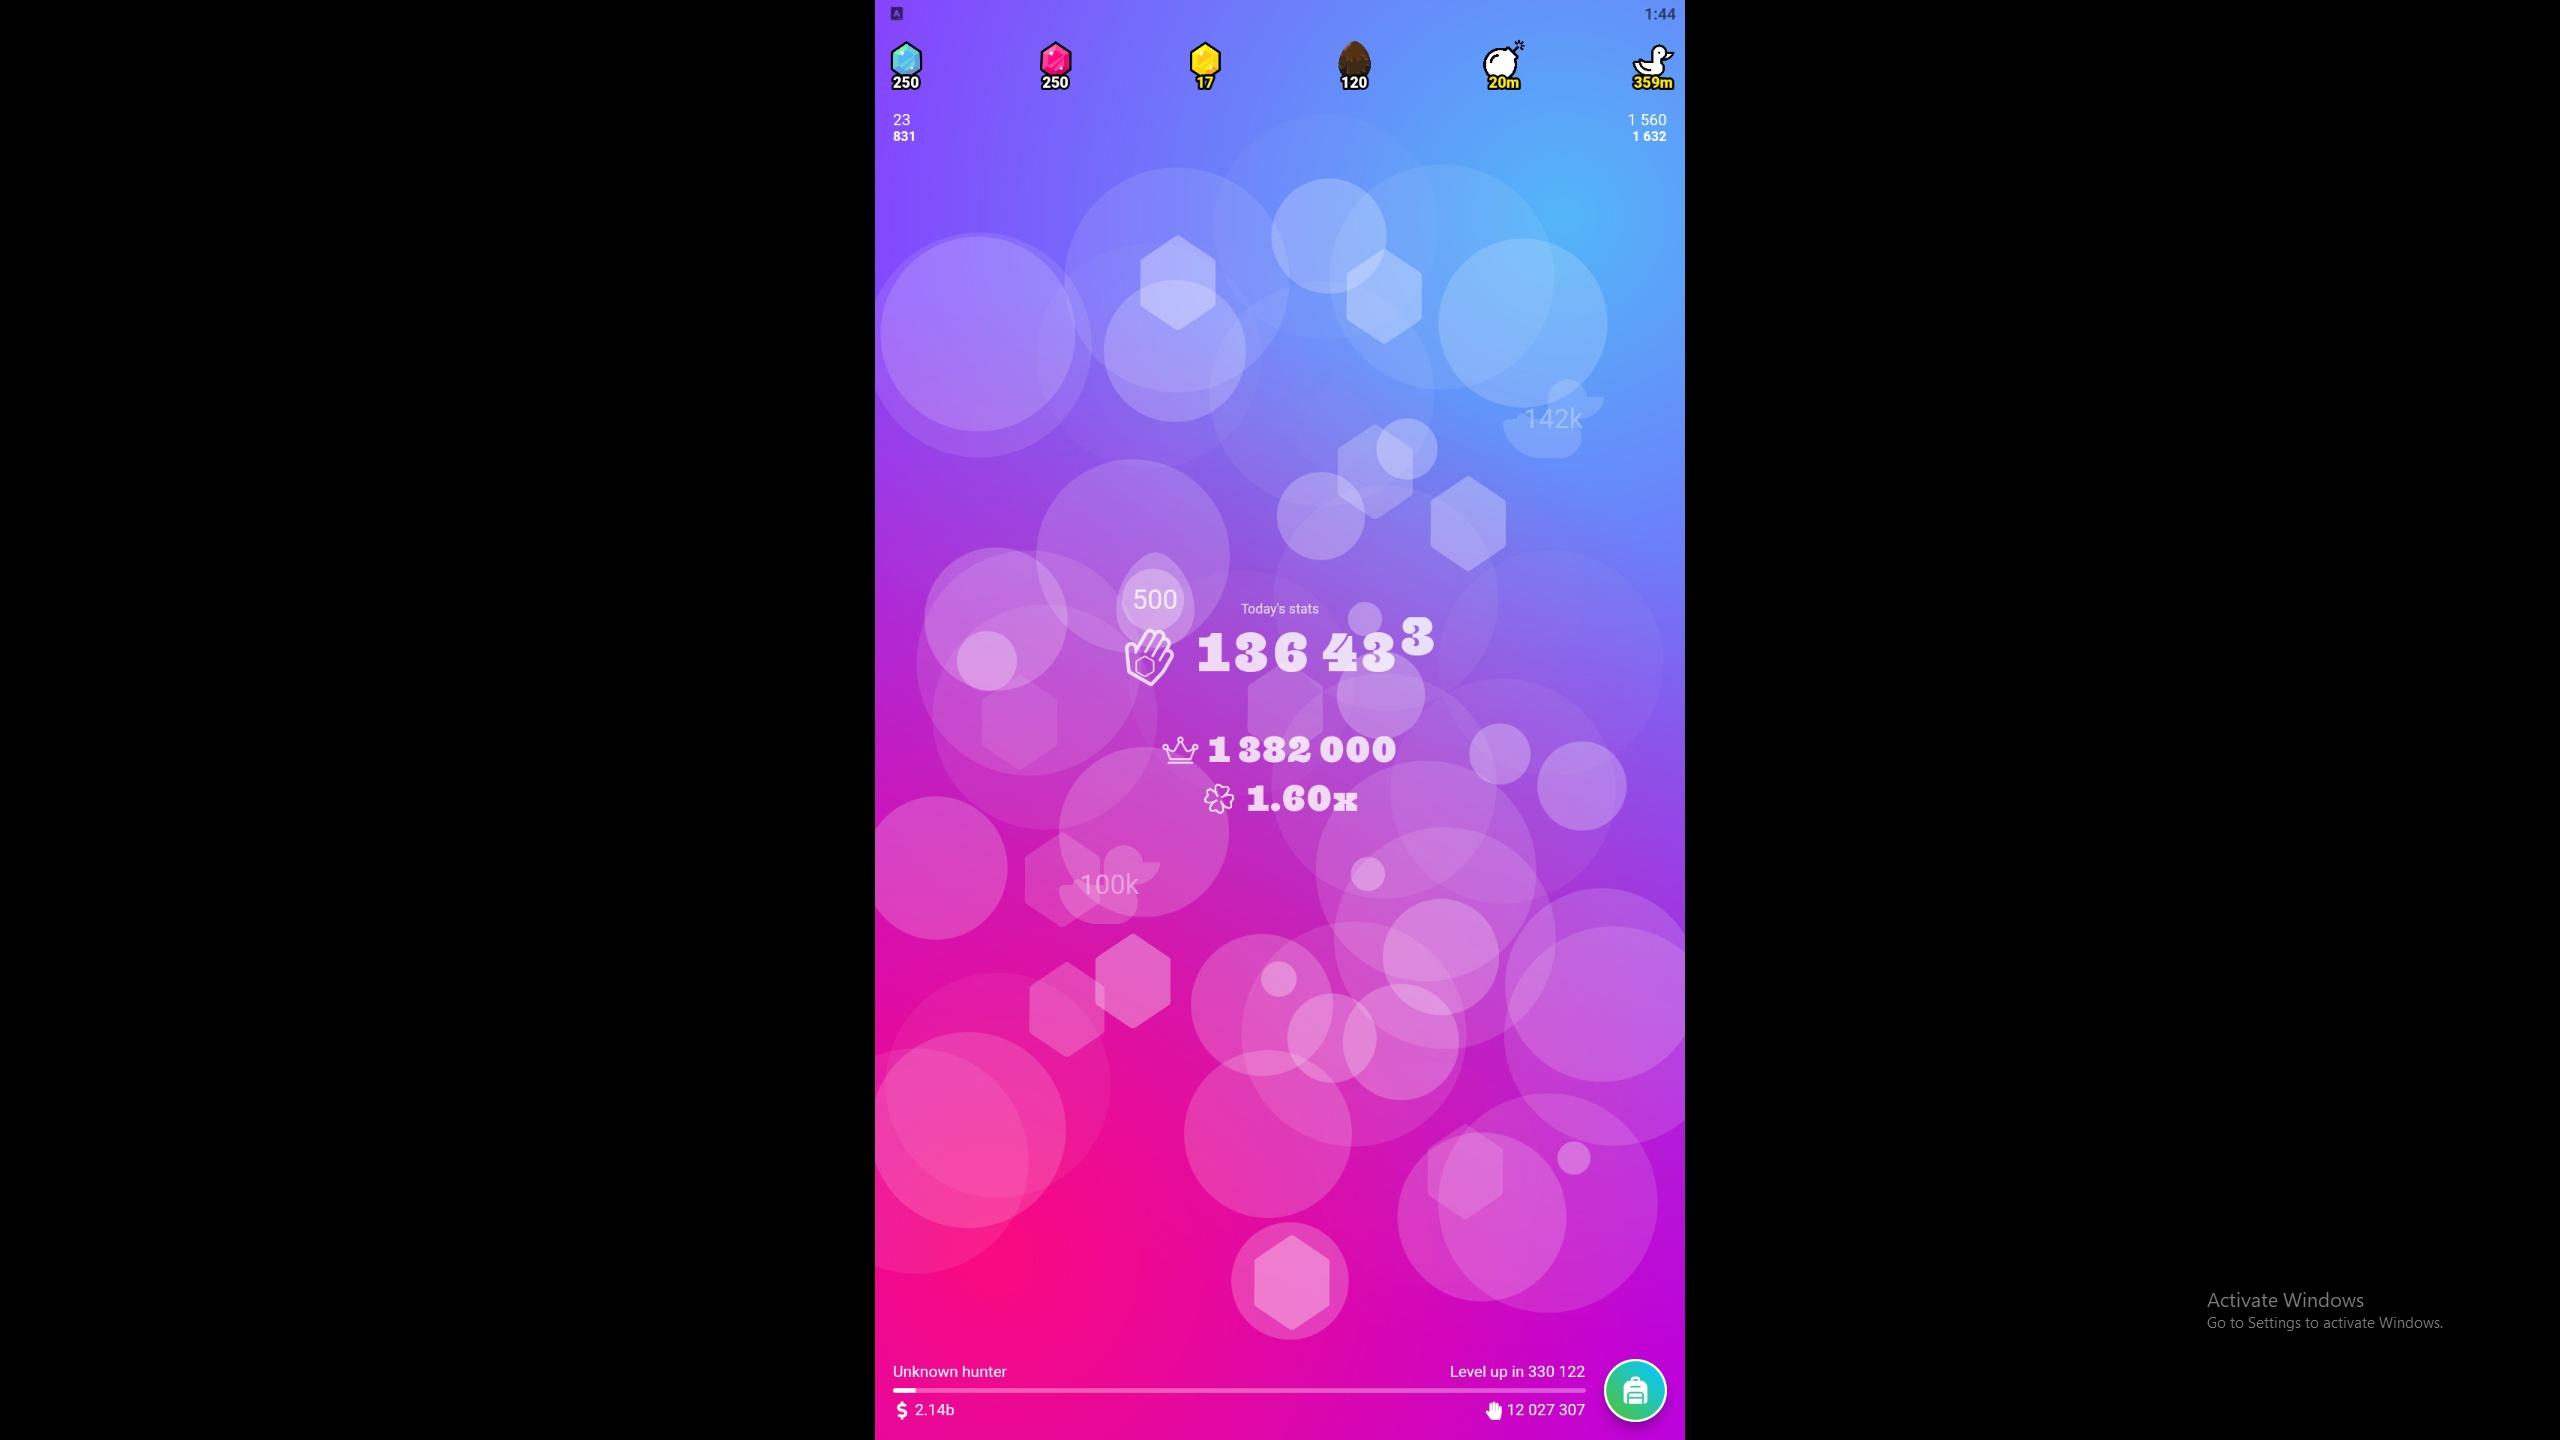
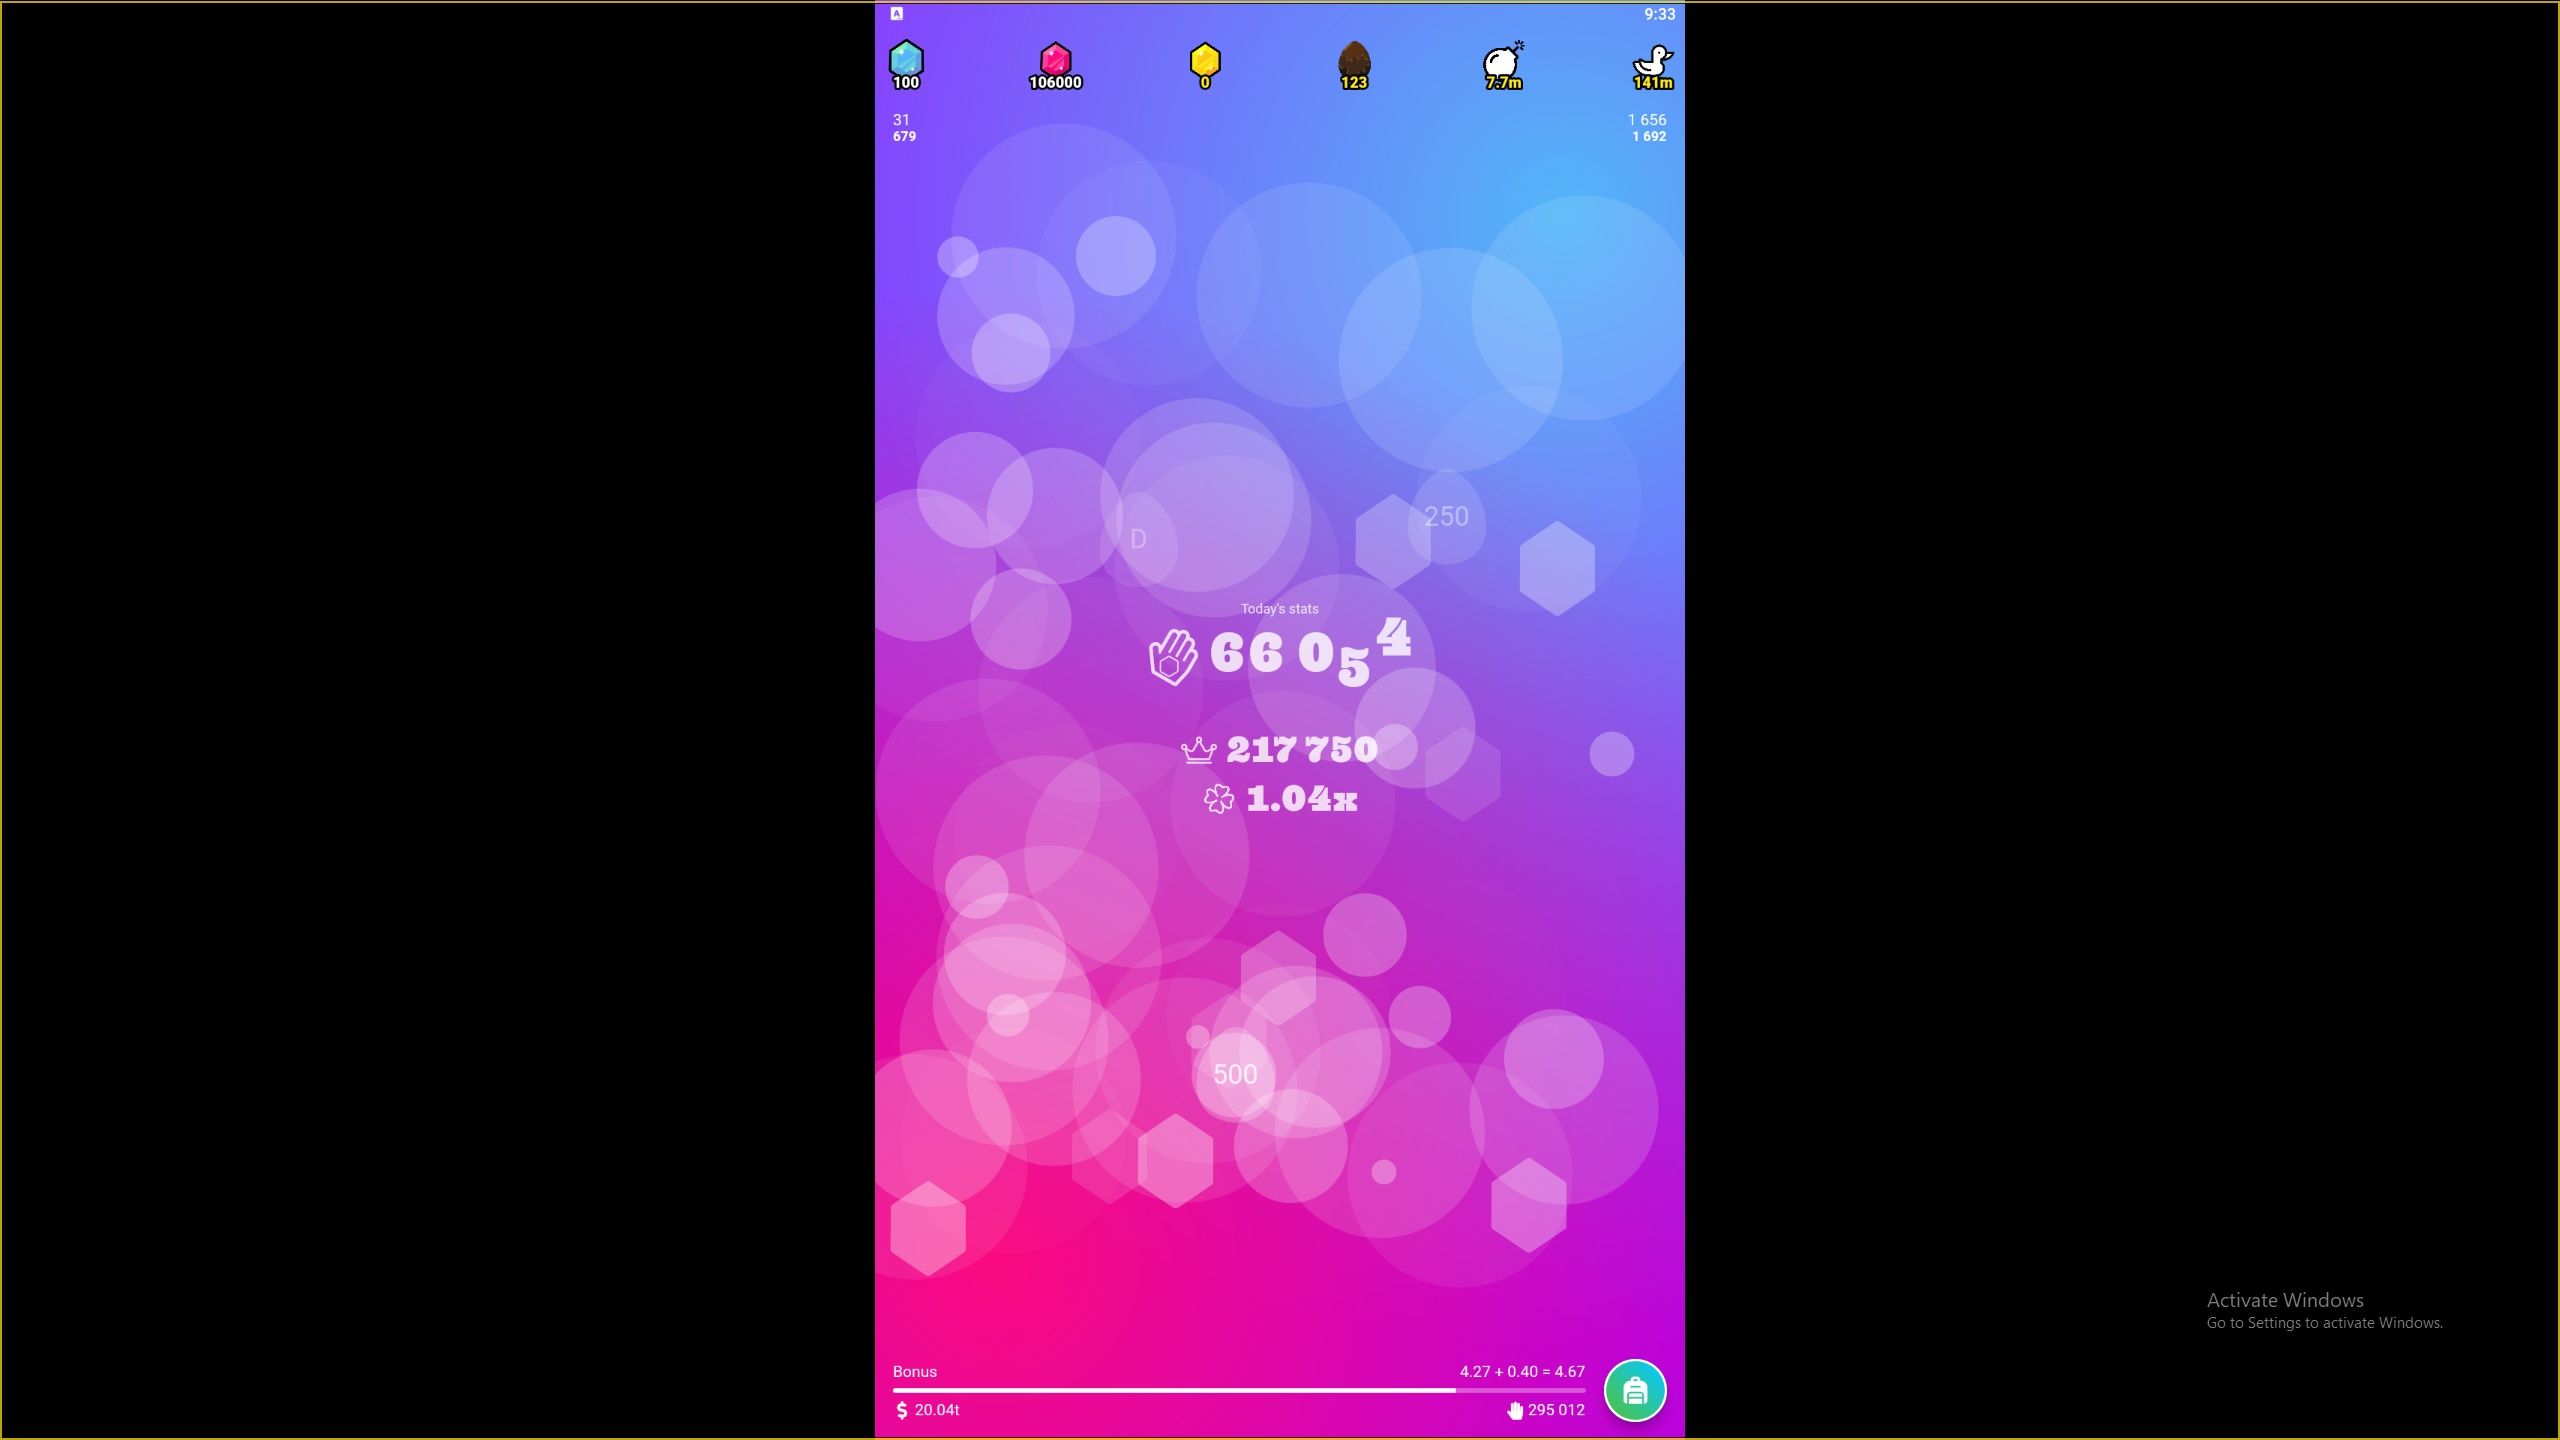
working gem pop

Changed region(s): [[0.3438, 0.125, 0.6562, 1.0], [0.3438, 0.0, 0.6562, 0.0625]]

diff --git a/ult.py b/ult.py
@@ -1,18 +1,20 @@
 from asyncio import create_subprocess_exec
 from asyncio.windows_events import NULL
 from multiprocessing.connection import wait
+from tkinter import W
 import pyautogui
 import threading
 import keyboard
 import time
 import random
 import cv2
+import compare
 pyautogui.PAUSE = 0.000000001 # sets delay between pyautogui actions
 
 
 xLower = 915
 xUpper = 1615
-yLower = 200
+yLower = 180
 yUpper = 1224
 
 def printPosition():
@@ -54,22 +56,48 @@ def closeGemPop():
     clickHere(1280, 1393)
     time.sleep(0.5)
 
+def closeGemPopMenu():
+    clickHere(1280, 908)
+    time.sleep(0.5)
+
 def randomPath(i):
     random.seed(random.seed(43))
     for i in range(i):
         move(random.randint(xLower, xUpper), random.randint(yLower, yUpper))
         pyautogui.click()
 
+#  def eggHuntPath(curr, past):
+#     w = 1674 - 877
+#     h = 1280 - 170
+#     xOffset = 877
+#     yOffset = 170
+#     stepX = 16
+#     stepY = 30
+#     alternate = False
+    
+#     huntEnd = False
+#     for i in range(stepY):
+#         compare.compare(curr, past)
+#         if compare.ifGemFull(curr, True) == 0:
+#             time.sleep(0.05)
+#             print("WE OUT AND DONE BBABYA")
+#             break
+#         for j in range(stepX):
+#             if alternate:
+#                 clickHere(xOffset + j * (w/stepX), yOffset + i * (h / stepY))
+#                 time.sleep(0.001)
+#                 alternate = True
+                
+#             else:
+#                clickHere(xOffset + (j + 1) * (w/stepX), yOffset + i * (h / stepY))
+#                time.sleep(0.001)
+#                alternate = False
+            
+#     print("egg hunt has snaked")
 
-#experiemntal stuff
-def newFind(screenshot):
-    newFindImg = cv2.imread('./images/newfind.png', cv2.IMREAD_UNCHANGED)
-    result = cv2.matchTemplate(newFindImg, screenshot, cv2.TM_CCOEFF_NORMED)
-    min_val, max_val, min_loc, max_loc = cv2.minMaxLoc(result)
-    if(max_val >= 0.99):
-        clickHere(1280, 1350)
 
 
-# Close (1280, 1290 or 1348)
+# size x - 877 -> 1674
+# size y - 170 -> 1280
 
 

diff --git a/main.py b/main.py
@@ -8,7 +8,9 @@ import ult
 
 
 counter = 0
-limit = 1000
+limit = 40
+isGemFullReturn = 0
+prevReturn = 0
 
 time.sleep(1)
 screenshot = capture.windowCapture()
@@ -32,18 +34,35 @@ while True:
         counter = 0
     else:
         counter += 1
-
-    if compare.ifGemFull(screenshot, True) == 1:
+    
+    prevReturn = isGemFullReturn
+    isGemFullReturn = compare.ifGemFull(screenshot, True)
+    if prevReturn == 2 and isGemFullReturn == 1: # prevent unwanted gem pop after egg hunt
+        time.sleep(0.1)
+        prevReturn = 0
+        isGemFullReturn = compare.ifGemFull(screenshot, True)
+    elif isGemFullReturn == 1 and prevReturn != 2:
         print('starting gem pop')
-        time.sleep(3)
+        time.sleep(1)
         ult.menuButton()
         ult.gemPopButton()
         ult.gemPopStart()
         time.sleep(2) # arbitrary value
+        ult.closeGemPopMenu()
         while not compare.gemPopCloseButton(screenshot):
+            screenshot = capture.windowCapture()
             time.sleep(0.1)
         ult.closeGemPop()
         time.sleep(2) # arbitrary value
+        ult.closeGemPopMenu() # in case of accidental click
+        time.sleep(0.5)
+        isGemFullReturn = 0
+        prevReturn = 0
+    # if isGemFullReturn == 2:
+    #         ult.eggHuntPath()
+
+
+        
 
 
     # if frame is read correctly ret is True

diff --git a/compare.py b/compare.py
@@ -63,6 +63,14 @@ def compare(current, previous):
 
     return (new, boxCoords)
 
+
+# determines if a gem storage is full.
+# current -> screenshot of screen
+# blue -> blue gem or not (True = blue, False = red)
+# return values
+# 0 -> yellow (not full)
+# 1 -> white (full)
+# 2 -> misc (most likely egg hunt)
 def ifGemFull(current, blue):
     bGemPos = 906
     rGemPos = 1055
@@ -93,7 +101,7 @@ def ifGemFull(current, blue):
                 print('white')
                 return 1 # white
     print("possible egg hunt")
-    return False # neither yellow or white
+    return 2 # neither yellow or white
 
 def gemPopCloseButton(current):
     collectButtX = 1280
